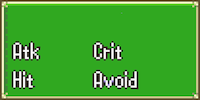
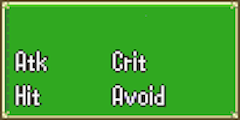
Adding mugshots to spawn during equip state

diff --git a/lib/game/main.js b/lib/game/main.js
@@ -515,11 +515,7 @@ ig.module(
                                 this.screenshakeIntensity = 10;
                                 this.targetedUnit.receiveDamage(this.computeBattleCritDamage(this.units[this.activeUnit], this.targetedUnit), this.units[this.activeUnit]); // Inflict critical damage
                             // No critical hit triggered, proceed to normal attack; compute if active unit lands a normal hit on targeted unit
-
-                            } else if(this.units[this.activeUnit].derived_stats.hit_rate - this.targetedUnit.derived_stats.evade > (Math.random()*100)) {
-
                             } else if(this.computeBattleNormalHitChance(this.units[this.activeUnit], this.targetedUnit) > Math.random() * 100) {
-
                                 // TODO: Active unit's normal attack animation goes here
                                 this.screenshakeIntensity = 5;
                                 this.targetedUnit.receiveDamage(this.computeBattleNormalDamage(this.units[this.activeUnit], this.targetedUnit), this.units[this.activeUnit]); // Inflict normal damage
@@ -553,11 +549,7 @@ ig.module(
                                 this.screenshakeIntensity = 10;
                                 this.units[this.activeUnit].receiveDamage(this.computeBattleCritDamage(this.targetedUnit, this.units[this.activeUnit]), this.targetedUnit); // Inflict critical damage
                             // No critical hit triggered, proceed to normal attack; compute if targeted unit lands a normal hit on active unit
-
-                            } else if(this.targetedUnit.derived_stats.hit_rate - this.units[this.activeUnit].derived_stats.evade > (Math.random()*100)) {
-
                             } else if(this.computeBattleNormalHitChance(this.targetedUnit, this.units[this.activeUnit]) > Math.random() * 100) {
-
                                 // TODO: Targeted unit's normal attack animation goes here
                                 this.screenshakeIntensity = 5;
                                 this.units[this.activeUnit].receiveDamage(this.computeBattleNormalDamage(this.targetedUnit, this.units[this.activeUnit]), this.targetedUnit); // Inflict normal damage
@@ -633,12 +625,8 @@ ig.module(
                                 // Targeted unit is faster unit; targeted unit attacks second time
                                 } else {
                                     // Compute if targeted unit triggers critical hit on active unit unit
-
-                                    if(this.targetedUnit.derived_stats.crit_rate - this.units[this.activeUnit].stat.luk > (Math.random()*100)) {
-
                                     if(this.computeBattleCritChance(this.targetedUnit, this.units[this.activeUnit]) > Math.random() * 100) {
                                         console.log('Critical hit');
-
                                         // TODO: Targeted unit's critical attack animation goes here
                                         this.screenshakeIntensity = 10;
                                         this.units[this.activeUnit].receiveDamage(this.computeBattleCritDamage(this.targetedUnit, this.units[this.activeUnit]), this.targetedUnit); // Inflict critical damage
@@ -938,10 +926,11 @@ ig.module(
                 var evadeChange = a.mod.evade;
                 //console.log(critChange);
                 // Draw stats for new weapon
-                this.font.draw(a.derived_stats.atk + "->" + atkChange, 440, 395);
-                this.font.draw(a.derived_stats.hit_rate + "->" + hitChange, 435, 425);
-                this.font.draw(a.derived_stats.crit_rate + "->" + critChange, 530, 395);
-                this.font.draw(evadeChange, 540, 425);
+                a.statMugshot.draw(425, 150);
+                this.font.draw(a.derived_stats.atk + "->" + atkChange, 455, 405);
+                this.font.draw(a.derived_stats.hit_rate + "->" + hitChange, 440, 440);
+                this.font.draw(a.derived_stats.crit_rate + "->" + critChange, 555, 405);
+                this.font.draw(evadeChange, 570, 440);
 
             }
             // Draw small character modal, showing small sprite, HP and level.
